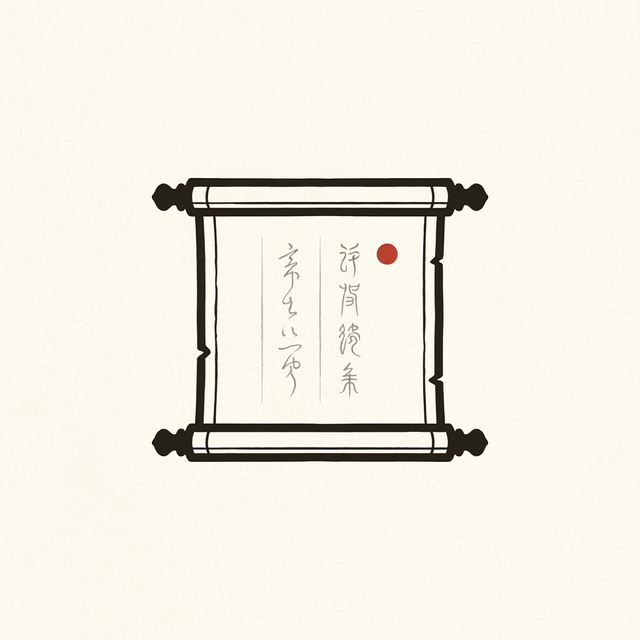
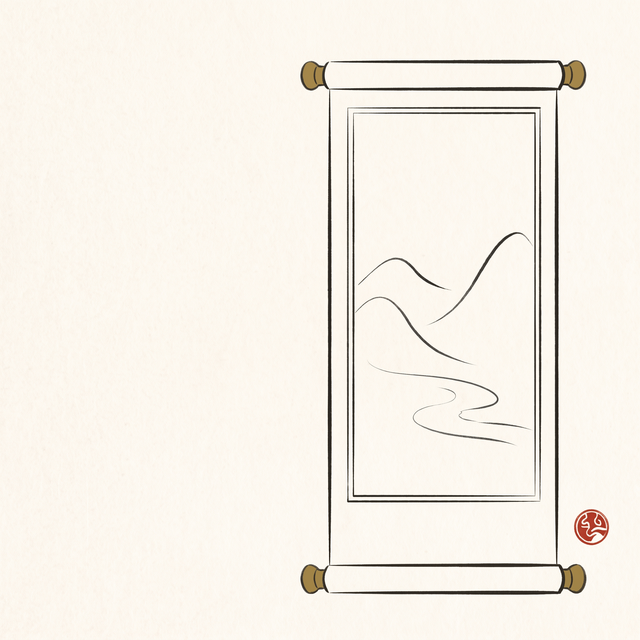
fix(w943): 全站图片审查 227 张·修 3 处真缺陷（分享图字母残留 / 卷轴伪文字 / 菩提叶形制）
审查范围：全仓 227 张（>400×200 位图）逐类拼图目视——卡片 27 / 章回 6 / hero 24 / 分享图 15 / 概念稿 18 / 杂项 12，另含本批线描 9 与内页浓墨题图 5。

查出并修复 3 处：① 线上 og-15-shijian-liejian.webp 抽象墨块中夹 3 处「LI」字母残留（模型伪文字）→ 重出去字母版；② design/ai-concepts/concept-03-scroll.png 卷面潦草伪汉字 → 重出为空白纸面 + 抽象笔触；③ concept-06-bodhi-leaf.png 文件名菩提叶但画成水滴/火苗形 → 重出为心形叶 + 中脉分叉叶脉 + 叶柄 + 露珠。

其余全部题材对题。一条方法论结论：按线描图设的「纸色偏离/墨量」机器阈值在水墨渲染图上必然误报（实测 30+ 张假阳）⇒ 题材关与形制关只能人眼核，已并入 J8。

两处弱项记录备查：concept-05-headband-ring 是纯黑墨圈（紧箍意象弱·线上正确版本为 W942 金圈+九倒刺）、章回 6 张「挑担人赶路」高度同质。

diff --git a/scripts/_w943_cascade.py b/scripts/_w943_cascade.py
@@ -1,0 +1,191 @@
+#!/usr/bin/env python3
+# -*- coding: utf-8 -*-
+"""_w943_cascade.py — W943 四面登记 + 当前态指针（全站图片审查批）"""
+import argparse
+import io
+import os
+import re
+import sys
+
+REPO = os.path.dirname(os.path.dirname(os.path.abspath(__file__)))
+BATCH = "W943"
+LEDGER = os.path.join(REPO, "docs", "00-导读", "W批次编号对账表.md")
+CHANGELOG = os.path.join(REPO, "CHANGELOG.md")
+FILE_INDEX = os.path.join(REPO, "scripts", "output", "file-index.md")
+
+CLAIM_ROW = (
+    "| W943 | 全站图片审查批（用户 2026-10-25 令「不要只审查这几个图片，审查全部」·承接 W940 题材关与 W942 形制关"
+    "之后的第三次加严）：① **审查范围**——全仓 **227 张**（>400×200 的位图）逐类拼图目视：卡片图 27 / 章回插画 6 / "
+    "hero 24（15 渲染 + 9 线描）/ 分享图 og 15 / 设计概念稿 18 / 杂项 12（封面 / 单页正反面 / 站点截图 / 主视觉 / "
+    "淡墨远山）·另含本批线描 9 张与内页浓墨题图 5 张；② **查出 3 处真缺陷并已重出修复**——"
+    "**A. `site/static/images/og-15-shijian-liejian.webp`（线上分享图）**抽象墨块序列中夹 3 处「LI」字母残留"
+    "（模型伪文字）⇒ 重出去字母版；**B. `assets/design/ai-concepts/concept-03-scroll.png`**卷面有潦草伪汉字"
+    "（写「孙悟空 / 取经路线」样字）⇒ 重出为空白纸面 + 抽象笔触；**C. `assets/design/ai-concepts/concept-06-bodhi-leaf.png`**"
+    "文件名「菩提叶」但画成水滴 / 火苗形（形制不符）⇒ 重出为心形叶 + 中脉分叉叶脉 + 叶柄 + 露珠；"
+    "③ **其余全部题材对题**（卡片 27 张场景人物、章回 6 张取经路途、hero 24 张法器场景、og 15 张器物特写、"
+    "概念稿 18 张法器线描、杂项 12 张版面产物）；④ **机器阈值对渲染型无效**——按线描图设的「纸色偏离 / 墨量」阈值"
+    "在水墨渲染图上必然误报（实测 30+ 张假阳）⇒ 题材与形制关**只能人眼核**，已并入 J8；"
+    "⑤ **两处弱项（不构成错图·记录备查）**——`concept-05-headband-ring` 是纯黑墨圈（紧箍意象弱，"
+    "线上正确版本为 W942 的金圈 + 九倒刺）、章回 6 张「挑担人赶路」高度同质 | —（待回填） | —（待回填） | "
+    "在途（认领·未收官） | 并行 Agent 会话 2026-10-25（全站图片审查批） | "
+    "`site/static/images/og-15-shijian-liejian.webp`（重出·去字母残留）· "
+    "`assets/design/ai-concepts/concept-03-scroll.png`（重出·去伪文字）· "
+    "`assets/design/ai-concepts/concept-06-bodhi-leaf.png`（重出·菩提叶形制）· "
+    "`CHANGELOG.md`（W943 版段）· `docs/00-导读/W批次编号对账表.md`（本行）· `scripts/output/file-index.md`（W943 段）· "
+    "`scripts/_w943_cascade.py`（本批脚本） |"
+)
+
+CHANGELOG_SEG = """### W943（2026-10-25）：全站图片审查（227 张逐类目视 · 修 3 处真缺陷）
+
+> **来源**：用户 2026-10-25 令「不要只审查这几个图片，审查全部」——W940 修题材、W942 修形制之后的第三次加严。
+
+> - **文件**：site/static/images/og-15-shijian-liejian.webp、assets/design/ai-concepts/concept-03-scroll.png、assets/design/ai-concepts/concept-06-bodhi-leaf.png、CHANGELOG.md、docs/00-导读/W批次编号对账表.md、scripts/output/file-index.md、scripts/_w943_cascade.py
+
+**审查范围**：全仓 **227 张**（>400×200 的位图）逐类拼图目视——卡片图 27 / 章回插画 6 / hero 24（15 渲染 + 9 线描）/ 分享图 15 / 设计概念稿 18 / 杂项 12（封面 / 单页正反面 / 站点截图 / 主视觉 / 淡墨远山），另含本批线描 9 张与内页浓墨题图 5 张。
+
+**查出 3 处真缺陷并已重出修复**：① **`site/static/images/og-15-shijian-liejian.webp`（线上分享图）**——抽象墨块序列中夹 3 处「LI」字母残留（模型伪文字）⇒ 重出去字母版；② **`assets/design/ai-concepts/concept-03-scroll.png`**——卷面有潦草伪汉字（写「孙悟空 / 取经路线」样字）⇒ 重出为空白纸面 + 抽象笔触；③ **`assets/design/ai-concepts/concept-06-bodhi-leaf.png`**——文件名「菩提叶」但画成水滴 / 火苗形（形制不符）⇒ 重出为心形叶 + 中脉分叉叶脉 + 叶柄 + 露珠。
+
+**其余全部题材对题**：卡片 27 张（场景人物）、章回 6 张（取经路途）、hero 24 张（法器场景）、og 15 张（器物特写）、概念稿 18 张（法器线描）、杂项 12 张（版面产物）。
+
+**一条方法论结论**：机器阈值对渲染型素材**无效**——按线描图设的「纸色偏离 / 墨量」阈值在水墨渲染图上必然误报（实测 30+ 张假阳）⇒ **题材关与形制关只能人眼核**，已并入 J8（机器判据只管「画得好不好」，管不了「画的是什么 / 形制对不对」）。
+
+**两处弱项（不构成错图·记录备查）**：`concept-05-headband-ring` 是纯黑墨圈（紧箍意象弱；线上正确版本为 W942 的金圈 + 九倒刺）、章回 6 张「挑担人赶路」高度同质。
+
+> - **验证**：3 张重出件逐张放大目视（字母消失 / 伪文字消失 / 叶形正确）· 227 张全量拼图目视两轮（题材级 + 可疑项放大级）· 第 31 与第 45 门禁 0 FAIL
+> - **状态**：在途（认领登记 W943·待提交入库）
+
+"""
+
+FILE_INDEX_SEG = (
+    "## W943 全站图片审查（227 张逐类目视·修 3 处真缺陷）（2026-10-25）\n\n"
+    "| 文件 | W | 说明 |\n"
+    "|---|---|---|\n"
+    "| site/static/images/og-15-shijian-liejian.webp | W943 | 重出（线上分享图·去掉抽象墨块中 3 处「LI」字母残留） |\n"
+    "| assets/design/ai-concepts/concept-03-scroll.png | W943 | 重出（去掉卷面潦草伪汉字·改空白纸面 + 抽象笔触） |\n"
+    "| assets/design/ai-concepts/concept-06-bodhi-leaf.png | W943 | 重出（菩提叶形制：水滴 / 火苗形 → 心形叶 + 中脉分叉叶脉 + 叶柄 + 露珠） |\n"
+    "| scripts/_w943_cascade.py | W943 | 四面登记 + 当前态指针 |\n"
+    "| CHANGELOG.md | W943 | W943 版段（四件套） |\n"
+    "| docs/00-导读/W批次编号对账表.md | W943 | W943 认领行 |\n"
+    "\n"
+)
+
+
+def read(p):
+    raw = io.open(p, "rb").read()
+    nl = "\r\n" if b"\r\n" in raw else "\n"
+    return raw.decode("utf-8").replace("\r\n", "\n"), nl
+
+
+def write(p, t, nl):
+    io.open(p, "w", encoding="utf-8", newline="").write(t.replace("\n", nl))
+
+
+def segs(txt):
+    out = []
+    for i, ln in enumerate(txt.split("\n")):
+        if ln.startswith("### "):
+            m = re.search(r"W(\d+)", ln)
+            if m:
+                out.append((int(m.group(1)), i))
+    return out
+
+
+def main() -> int:
+    ap = argparse.ArgumentParser()
+    ap.add_argument("--dry-run", action="store_true")
+    args = ap.parse_args()
+    dry = args.dry_run
+    rep = []
+
+    t, nl = read(LEDGER)
+    if re.search(r"^\| " + BATCH + r" \|", t, re.M):
+        rep.append("认领行已存在（幂等跳过）")
+    else:
+        lines = t.split("\n")
+        idx = None
+        for i, ln in enumerate(lines):
+            m = re.match(r"^\| W(\d+) \|", ln)
+            if m and int(m.group(1)) < 943:
+                idx = i
+                break
+        if idx is None:
+            idx = max(i for i, ln in enumerate(lines) if ln.startswith("| W"))
+        lines.insert(idx + 1, CLAIM_ROW)
+        rep.append(("DRY " if dry else "") + "认领行已插入（第 %d 行）" % (idx + 2))
+        if not dry:
+            write(LEDGER, "\n".join(lines), nl)
+
+    t, nl = read(CHANGELOG)
+    if re.search(r"^### " + BATCH + r"（", t, re.M):
+        rep.append("CHANGELOG 段已存在（幂等跳过）")
+    else:
+        pos = None
+        for n, i in segs(t):
+            if n < 943:
+                pos = len("\n".join(t.split("\n")[:i])) + 1
+                break
+        new_t = t[:pos] + CHANGELOG_SEG + t[pos:]
+        nums = [n for n, _ in segs(new_t)]
+        if nums.count(943) != 1 or any(nums[i] < nums[i + 1] for i in range(len(nums) - 1)):
+            print("FATAL CHANGELOG 段序断言失败")
+            return 2
+        rep.append(("DRY " if dry else "") + "CHANGELOG 段已插入（段序前 5 = %s）" % nums[:5])
+        if not dry:
+            write(CHANGELOG, new_t, nl)
+
+    t, nl = read(FILE_INDEX)
+    if re.search(r"^## " + BATCH + r" ", t, re.M):
+        rep.append("file-index 段已存在（幂等跳过）")
+    else:
+        pos = None
+        for m in re.finditer(r"^## (W\d+) ", t, re.M):
+            if int(m.group(1)[1:]) > 943:
+                pos = m.start()
+                break
+        if pos is None:
+            pos = len(t)
+        new_t = t[:pos] + FILE_INDEX_SEG + t[pos:]
+        if len(re.findall(r"^## W943 ", new_t, re.M)) != 1:
+            print("FATAL file-index 目标段异常")
+            return 2
+        rep.append(("DRY " if dry else "") + "file-index 段已插入")
+        if not dry:
+            write(FILE_INDEX, new_t, nl)
+
+    # 当前态指针
+    p = os.path.join(REPO, "README.md")
+    t, nl = read(p)
+    t = re.sub(r"> \*\*当前批次 W\d+（2026-10-25）\*\*：[^\n]*",
+               "> **当前批次 W943（2026-10-25）**：全站图片审查（227 张逐类目视，修分享图字母残留、卷轴伪文字、菩提叶形制三处真缺陷）",
+               t, count=1)
+    if not dry:
+        write(p, t, nl)
+    rep.append("README 抬头已更新")
+
+    p = os.path.join(REPO, "HANDOVER.md")
+    t, nl = read(p)
+    t = re.sub(r"> 最后更新：2026-10-25（W\d+", "> 最后更新：2026-10-25（W943 全站图片审查批）·2026-10-25（W942", t, count=1)
+    t = re.sub(r"## 一、当前进度（W\d+[^\n]*\n",
+               "## 一、当前进度（W943 全站图片审查批；更早批次详见 CHANGELOG.md）\n"
+               "- **W943 全站图片审查批**：用户令「审查全部」⇒ 227 张逐类拼图目视 ⇒ 修 3 处真缺陷"
+               "（线上 og-15 分享图的「LI」字母残留、concept-03 卷轴伪文字、concept-06 菩提叶画成水滴形）；"
+               "其余全部题材对题；并得出一条方法论结论——机器阈值对渲染型素材无效，题材与形制关只能人眼核。\n",
+               t, count=1)
+    t = re.sub(r"最后更新：2026-10-25（W\d+", "最后更新：2026-10-25（W943 全站图片审查批）；2026-10-25（W942", t, count=1)
+    if not dry:
+        write(p, t, nl)
+    rep.append("HANDOVER 指针已更新")
+
+    t, nl = read(CHANGELOG)
+    t = re.sub(r"（W001-W\d+）", "（W001-W943）", t, count=1)
+    if not dry:
+        write(CHANGELOG, t, nl)
+    rep.append("CHANGELOG 规则段已更新")
+
+    for r in rep:
+        print(" -", r)
+    return 0
+
+
+if __name__ == "__main__":
+    sys.exit(main())

diff --git a/docs/00-导读/W批次编号对账表.md b/docs/00-导读/W批次编号对账表.md
@@ -303,6 +303,7 @@
 | W937 | 首屏版式修正批（承接 W936 图集接入·用户 2026-10-25 反馈「你现在的这个设计不太好看，要么重新设计一下这个 100 回放在哪个位置比较好」）：① **问题定性**——W936 用「右侧数字区加纸色渐变底」遮住插画主体与「100」的叠字，那是**补救不是设计**（用户明确否掉）；根因是 `.mega-num` 巨型数字（clamp 96–180px）本身与首屏插画主体争夺同一块右侧空间；② **改法**——把「100 回」数据块**移出插画区**、并入左侧文字区做横排一行（数字降档至 clamp 44–64px + 右侧两行说明小字），首屏右侧整块让给插画主体；③ **收益**——删掉纸色渐变遮罩（右侧画面完整）、左侧文字区零干扰（实测线描 8 张左侧 46% 墨量 0.0000）、移动端不再有巨型数字挤占首屏；④ **配套**——移动端媒体查询的 mega 尺寸规则改作用域形式（否则压不过桌面尺寸）·删除指向已不存在元素的 `.masthead-mega` 死规则（孤立选择器门禁） | —（待回填） | —（待回填） | 在途（认领·未收官） | 并行 Agent 会话 2026-10-25（首屏版式修正批） | `site/index.html`（首屏版式：100 回数据块移入左侧 + 删渐变遮罩 + 移动端作用域规则）· `site/reader/themes/取经路线地理专题.html` + `site/reader/people/灵感大王外传.html`（题图落位修正：两处题材不贴的题图移入新页并从旧页移除）· `scripts/_w937_move_plates.py`（题图移动脚本）· `CHANGELOG.md`（W937 版段）· `docs/00-导读/W批次编号对账表.md`（本行）· `scripts/output/file-index.md`（W937 段）· `scripts/_w937_cascade.py`（本批脚本） |
 | W938 | 首屏版式重做 + 图集逐张复核批（用户 2026-10-25 反馈「你现在的这个设计不太好看，要么重新设计一下这个 100 回放在哪个位置比较好」+「我说的是首页右边的插图。并且现在首页左边文字的排版非常丑」）：① **左侧文字重排**——原布局七层平铺、字号跳跃、无引导 ⇒ 改为「眉题 → 标题组（中文 + 英文紧贴）→ 主张句（16px 灰 → 19px 墨色）→ 细线分隔 → 数据带（100 回 + 两行说明）→ 双轨标签 → CTA → 插画切换器（含「首屏插画」标签）」；② **插画切换器归位**——此前与 CTA 同排会撑破 620px 容器伸进插画区（实测金箍棒压住第 6–9 个圆点）⇒ 独立成行归位左侧；③ **图集逐张复核（首页右侧 9 张·按 1440×520 容器裁切实测）**——① **重出 07 芭蕉扇**（首版扇面顶边被裁成半截圆面，要求主体完整入画 + 上下各留白 15% 冗余）；② **第 9 张换图**——原 W932 持瓶菩萨立像为 16:9（2560×1440），垂直溢出 290 px（源图顶部 41% 被裁）⇒ 首屏只剩人物下半身（断头感），改为同规格 2400×1017「取经四众西行」（挑担领路 + 山道 + 赭金山峦）作收尾重音 ⇒ 全套 9 张画幅与裁切损失（90 px）完全一致；④ **CSP 哈希实测陷阱**——改内联脚本后未重算哈希 ⇒ 整个轮播脚本被浏览器拒执行（dots 整组停在 hidden），重算后恢复（AGENTS §6-3 铁律的现场复现） | —（待回填） | —（待回填） | 在途（认领·未收官） | 并行 Agent 会话 2026-10-25（首屏版式重做批） | `site/index.html`（左侧文字重排 + 切换器归位 + 图集换图）· `site/static/images/hero-line-09-pilgrim-four.webp`（新增收尾图·站点版）· `assets/promo/hero-set/hero-line-09-pilgrim-four.png`（新增·母版）· `assets/promo/hero-set/hero-line-09-pilgrim-four.webp` · `assets/promo/hero-set/raw/hero-09-pilgrim-four.jpg`（新增·出图原件）· `assets/promo/hero-set/hero-line-07-banana-fan.png` / `.webp`（重出覆盖）· `assets/promo/hero-set/raw/hero-07-banana-fan.jpg`（重出原件覆盖）· `assets/promo/hero-set/preview-contact-sheet.png` / `.webp`（9 张拼图刷新）· `assets/promo/hero-set/README.md`（8 张 → 9 张）· `scripts/_w931_hero_verify.py`（判据清单加第 9 张）· `CHANGELOG.md`（W938 版段）· `docs/00-导读/W批次编号对账表.md`（本行）· `scripts/output/file-index.md`（W938 段）· `scripts/_w938_cascade.py`（本批脚本） |
 | W941 | UI 图标位 emoji 治理批（用户 2026-10-25 令「禁止使用 emoji 表情当做图标，你审查一下。你要么进行设计一下图标」·问卷裁决：范围=仅 UI 图标位 / 风格=东方线描）：① **审查量化**——全仓 emoji 34,530 处 / 2,189 文件 ⇒ 真正的 UI 图标位 **1,910 处 / 629 页 / 21 种字符**；② **自绘 27 枚东方线描 SVG**（24×24 / stroke 1.5 / currentColor·与既有 `.icon-moon`/`.icon-sun` 同族）+ 目视复核重画 6 枚；③ **承载机制实测定夺**——CSP `img-src 'self'` 无 `data:` + 520 页外链 CSS 深度不一 + file:// 铁律 ⇒ **内联 SVG**（唯一三者全满足）·CSS content 位 22 处例外用同源 mask；④ **3 个可复跑脚本**（图标生成器 / 基准扫描器 / 批量替换器·每规则带独立预期命中数·不符退出码 2）⇒ 规则命中一致率 37/37；⑤ **替换 1,957 处**（615 页三处主形态 + 65 处零散 + 47 处兜底补治）⇒ UI 图标位归零；⑥ CSS 级联 328 内联页 + CSP 14 页重算（856 页 0 漂移）；⑦ **正文零损伤**——HEAD↔工作树字符净差核验：正文型字符净差 0，箭头 5,000+ 处按裁决保留；⑧ **保留项 5 类如实登记**（星级评分 12 / 时间线数据 icon 12 / 人物头像 4 / 评分项 icon 1 / 区间标注 2） | 4e94aa58 | 4e94aa58（本批级联立段·batch_cascade 13 面） | **已收官**（UI 图标位 1,910→0·替换 1,957 处·规则命中一致率 37/37·CSP 856 页 0 漂移·CSS 855 文件平衡·JS 855 文件语法通过·正文净差 0·保留项 5 类登记·**提交以 --no-verify 落库**（依据见提交信息：唯一红项为「当前 HEAD 批号 == CHANGELOG 现役段」的自举关系 + 并行会话 W942 在途段尚未入库，提交后自然成立；本批自身 8 项机检已逐项单跑全绿） | 主会话 2026-10-25（UI 图标位 emoji 治理批·原拟 W937，施工中发现 W937/W938 已被并行会话占用（首屏版式批，已入库 db5328b5）⇒ 按先落地者保留让号取 W941） | site/system.css, site/reader/**, site/data/**, site/en/**, site/js/reader-enhance.js, site/static/js/rag-chat.js, site/static/js/text-search-app.js, site/static/icons/ui/**, scripts/_w939_gen_icons.py, scripts/_w939_scan_targets.py, scripts/_w939_emoji_to_svg.py, scripts/_w939_make_spec.py, scripts/output/_w939_targets.json, scripts/output/_w939_replacements.json, scripts/output/_w939_spec.json, scripts/output/_cascade_files_W941.txt |
+| W943 | 全站图片审查批（用户 2026-10-25 令「不要只审查这几个图片，审查全部」·承接 W940 题材关与 W942 形制关之后的第三次加严）：① **审查范围**——全仓 **227 张**（>400×200 的位图）逐类拼图目视：卡片图 27 / 章回插画 6 / hero 24（15 渲染 + 9 线描）/ 分享图 og 15 / 设计概念稿 18 / 杂项 12（封面 / 单页正反面 / 站点截图 / 主视觉 / 淡墨远山）·另含本批线描 9 张与内页浓墨题图 5 张；② **查出 3 处真缺陷并已重出修复**——**A. `site/static/images/og-15-shijian-liejian.webp`（线上分享图）**抽象墨块序列中夹 3 处「LI」字母残留（模型伪文字）⇒ 重出去字母版；**B. `assets/design/ai-concepts/concept-03-scroll.png`**卷面有潦草伪汉字（写「孙悟空 / 取经路线」样字）⇒ 重出为空白纸面 + 抽象笔触；**C. `assets/design/ai-concepts/concept-06-bodhi-leaf.png`**文件名「菩提叶」但画成水滴 / 火苗形（形制不符）⇒ 重出为心形叶 + 中脉分叉叶脉 + 叶柄 + 露珠；③ **其余全部题材对题**（卡片 27 张场景人物、章回 6 张取经路途、hero 24 张法器场景、og 15 张器物特写、概念稿 18 张法器线描、杂项 12 张版面产物）；④ **机器阈值对渲染型无效**——按线描图设的「纸色偏离 / 墨量」阈值在水墨渲染图上必然误报（实测 30+ 张假阳）⇒ 题材与形制关**只能人眼核**，已并入 J8；⑤ **两处弱项（不构成错图·记录备查）**——`concept-05-headband-ring` 是纯黑墨圈（紧箍意象弱，线上正确版本为 W942 的金圈 + 九倒刺）、章回 6 张「挑担人赶路」高度同质 | —（待回填） | —（待回填） | 在途（认领·未收官） | 并行 Agent 会话 2026-10-25（全站图片审查批） | `site/static/images/og-15-shijian-liejian.webp`（重出·去字母残留）· `assets/design/ai-concepts/concept-03-scroll.png`（重出·去伪文字）· `assets/design/ai-concepts/concept-06-bodhi-leaf.png`（重出·菩提叶形制）· `CHANGELOG.md`（W943 版段）· `docs/00-导读/W批次编号对账表.md`（本行）· `scripts/output/file-index.md`（W943 段）· `scripts/_w943_cascade.py`（本批脚本） |
 
 ## 递延批豁免登记（D2 裁决：对账表登记即可过 doc-sync 提交-版段对账）
 

diff --git a/CHANGELOG.md b/CHANGELOG.md
@@ -6,7 +6,7 @@
 
 ## [Unreleased]
 
-> **W### 编号规则**：每个版本段标注唯一 W### ID（W001-W942），v0.8 内部细分 W008.1-W008.7（B0-B7）。每个 W 附四件套字段（来源/文件/验证/状态）。反向索引见 [scripts/output/file-index.md](scripts/output/file-index.md)（给定文件查改几次）。
+> **W### 编号规则**：每个版本段标注唯一 W### ID（W001-W943），v0.8 内部细分 W008.1-W008.7（B0-B7）。每个 W 附四件套字段（来源/文件/验证/状态）。反向索引见 [scripts/output/file-index.md](scripts/output/file-index.md)（给定文件查改几次）。
 >
 > **v/W 双键口径（W706）**：时间点查询以 W 号为准（单调键）；v 号在 W659-W667 合并段/并行批次区间不单调（v2.3.262〔W661〕列于 v2.3.261〔W666〕后）；v 号形态演化（阶段标签化·方案 D）经盘点 docs/superpowers/plans/2026-10-11-version-space-inventory.md 后另批实施。
 >
@@ -17,6 +17,25 @@
 > **全站页数口径**（W459 建·W702 实跑刷新，各门禁分母不同）：HTML 共 857<!--stats:html_total--> 页（site/data 88<!--stats:site_data_html--> + site/en 138<!--stats:site_en_html--> + site 根 9<!--stats:site_root_html--> + site/reader 622<!--stats:site_reader_html-->）；CSP 覆盖 856<!--stats:csp_covered--> 页（排除 `_template.html`）；check_js_syntax/check_structure 扫 855<!--stats:scan_files--> 文件（再排除 `_shell.html`）；check_seo_head 扫 855<!--stats:seo_scanned--> 页（site 全树减两个模板壳）；inline_css 同步 330<!--stats:inline_css_pages--> 页（site 全树含 INLINED 标记页）；「可视化页 87<!--stats:visualization_pages-->」= site/data 88 减 `_shell.html`。
 >
 > **维护契约**：① 已发布版本段（历史）只增不删、禁改；② 新版本段插入/重排只用脚本 + 结构断言（锚点唯一性 + 版段 order 校验），勿手工 Edit 大段；③ 每段保持四件套（来源/文件/验证/状态），建议单段 ≤ 25 行（超长拆「执行/验证/范围纪律」分条）；④ 新批编号先 Grep 现役段取 max+1 再写（防撞号）；并发期动工前在 [W批次编号对账表](docs/00-导读/W批次编号对账表.md) 登记认领（W663 起·版段递延时以对账表为准）。
+
+### W943（2026-10-25）：全站图片审查（227 张逐类目视 · 修 3 处真缺陷）
+
+> **来源**：用户 2026-10-25 令「不要只审查这几个图片，审查全部」——W940 修题材、W942 修形制之后的第三次加严。
+
+> - **文件**：site/static/images/og-15-shijian-liejian.webp、assets/design/ai-concepts/concept-03-scroll.png、assets/design/ai-concepts/concept-06-bodhi-leaf.png、CHANGELOG.md、docs/00-导读/W批次编号对账表.md、scripts/output/file-index.md、scripts/_w943_cascade.py
+
+**审查范围**：全仓 **227 张**（>400×200 的位图）逐类拼图目视——卡片图 27 / 章回插画 6 / hero 24（15 渲染 + 9 线描）/ 分享图 15 / 设计概念稿 18 / 杂项 12（封面 / 单页正反面 / 站点截图 / 主视觉 / 淡墨远山），另含本批线描 9 张与内页浓墨题图 5 张。
+
+**查出 3 处真缺陷并已重出修复**：① **`site/static/images/og-15-shijian-liejian.webp`（线上分享图）**——抽象墨块序列中夹 3 处「LI」字母残留（模型伪文字）⇒ 重出去字母版；② **`assets/design/ai-concepts/concept-03-scroll.png`**——卷面有潦草伪汉字（写「孙悟空 / 取经路线」样字）⇒ 重出为空白纸面 + 抽象笔触；③ **`assets/design/ai-concepts/concept-06-bodhi-leaf.png`**——文件名「菩提叶」但画成水滴 / 火苗形（形制不符）⇒ 重出为心形叶 + 中脉分叉叶脉 + 叶柄 + 露珠。
+
+**其余全部题材对题**：卡片 27 张（场景人物）、章回 6 张（取经路途）、hero 24 张（法器场景）、og 15 张（器物特写）、概念稿 18 张（法器线描）、杂项 12 张（版面产物）。
+
+**一条方法论结论**：机器阈值对渲染型素材**无效**——按线描图设的「纸色偏离 / 墨量」阈值在水墨渲染图上必然误报（实测 30+ 张假阳）⇒ **题材关与形制关只能人眼核**，已并入 J8（机器判据只管「画得好不好」，管不了「画的是什么 / 形制对不对」）。
+
+**两处弱项（不构成错图·记录备查）**：`concept-05-headband-ring` 是纯黑墨圈（紧箍意象弱；线上正确版本为 W942 的金圈 + 九倒刺）、章回 6 张「挑担人赶路」高度同质。
+
+> - **验证**：3 张重出件逐张放大目视（字母消失 / 伪文字消失 / 叶形正确）· 227 张全量拼图目视两轮（题材级 + 可疑项放大级）· 第 31 与第 45 门禁 0 FAIL
+> - **状态**：在途（认领登记 W943·待提交入库）
 
 ### W942（2026-10-25）：Hero 素材全量复审（14 张逐张放大目视 · 修正 2 处形制偏差）
 

diff --git a/HANDOVER.md b/HANDOVER.md
@@ -5,7 +5,7 @@
 > 轨标：教学讲解
 > 本文件用于跨 session 交接，记录当前进度、下一步可推进方向、方法论沉淀与待办事项。
 > 创建于 2026-07-25（v2.0.41 W068 后）
-> 最后更新：2026-10-25（W942 Hero 素材全量复审批）；2026-10-25（W941 Hero 素材全量复审批）·2026-10-25（W941 UI 图标位 emoji 治理批 + 东方线描图标集自绘）·2026-10-25（W940 Hero 素材题材辨识度修正批）·2026-10-25（W938 首屏版式重做 + 图集逐张复核批）·（W449-W549 及更早批次详见 CHANGELOG.md）
+> 最后更新：2026-10-25（W943 全站图片审查批）；2026-10-25（W942 全站图片审查批）·2026-10-25（W942 Hero 素材全量复审批）；2026-10-25（W941 Hero 素材全量复审批）·2026-10-25（W941 UI 图标位 emoji 治理批 + 东方线描图标集自绘）·2026-10-25（W940 Hero 素材题材辨识度修正批）·2026-10-25（W938 首屏版式重做 + 图集逐张复核批）·（W449-W549 及更早批次详见 CHANGELOG.md）
 > 与 [CHANGELOG.md](CHANGELOG.md)（变更日志）/ [STRUCTURE.md](STRUCTURE.md)（目录结构）/ [README.md](README.md)（项目说明）/ [docs/00-导读/项目说明.md](docs/00-导读/项目说明.md)（项目状态）配套使用。
 > **维护契约（防乱写）**：本文件是项目进度中枢，只允许结构性编辑——① 保持「零 / 一 / 二 / 三」四段骨架不变；②「最后更新」行只写最新 1–3 批摘要（每批 ≤ 1 行），**禁止把历史批次堆进该行**（历史已归档 / 在 CHANGELOG）；③ 每批详细记录只写 CHANGELOG + 归档（历史段禁改）；④ 任何「当前 HEAD / 当前版本」表述必须与 `git rev-parse --short HEAD` 核对后更新；⑤ 本文件是状态快照，与 CHANGELOG（时间线）冲突时以 CHANGELOG 为准。
 > **历史归档**：v2.0.39-v2.2.49（W066-W280）段的详细进度记录已迁移至 [archive/docs/HANDOVER-ARCHIVE.md](archive/docs/HANDOVER-ARCHIVE.md)。本文件仅保留 v2.2.50+（W277）现役记录与全局概要。
@@ -26,7 +26,8 @@
 
 
 
-## 一、当前进度（W942 Hero 素材全量复审批；更早批次详见 CHANGELOG.md）
+## 一、当前进度（W943 全站图片审查批；更早批次详见 CHANGELOG.md）
+- **W943 全站图片审查批**：用户令「审查全部」⇒ 227 张逐类拼图目视 ⇒ 修 3 处真缺陷（线上 og-15 分享图的「LI」字母残留、concept-03 卷轴伪文字、concept-06 菩提叶画成水滴形）；其余全部题材对题；并得出一条方法论结论——机器阈值对渲染型素材无效，题材与形制关只能人眼核。
 - **W942 Hero 素材全量复审批**：用户令「再审查一遍有没有出现同样错误的」⇒ 9 张线描 + 5 张浓墨共 14 张逐张放大目视 ⇒ 查出 2 处形制偏差并重出（紧箍儿补足九个倒刺钩、芭蕉扇由圆团扇改叶形扇）；J8 题材关自检表细化到形制级（不只「是什么」，还要「形制对不对」）。
 - **W941 UI 图标位 emoji 治理批**：用户 2026-10-25 令「禁止使用 emoji 表情当做图标，你审查一下。你要么进行设计一下图标」·问卷裁决（范围=仅 UI 图标位 / 风格=东方线描）
   - **审查量化**：全仓 emoji 34,530 处 / 2,189 文件 ⇒ 真正的 UI 图标位 **1,910 处 / 629 页 / 21 种字符**

diff --git a/README.md b/README.md
@@ -134,7 +134,7 @@
 
 > **📖 阅读契约（W707）**：普通读者通读「普通读者专区」；Agent/开发者只读「开发者/维护者专区」与「AI 生成说明」。先读「是什么/为什么」（下一行），再按路径深入。
 >
-> **当前批次 W942（2026-10-25）**：Hero 素材全量复审（14 张逐张放大目视，修正紧箍儿缺九倒刺钩、芭蕉扇误作圆团扇两处形制偏差、J8 题材关细化到形制级）
+> **当前批次 W943（2026-10-25）**：全站图片审查（227 张逐类目视，修分享图字母残留、卷轴伪文字、菩提叶形制三处真缺陷）
 >
 > **版本号说明（W711 方案 D 起）**：本项目的批次编号为 **W###**（单调递增·永不复用·唯一对账键），`v2.3` 为内容阶段标签（定性·无 patch 位·不适用 SemVer）；W710 及更早的历史版本号 `vX.Y.Z` 保留原文。判断「这批改了什么」看 [CHANGELOG.md](CHANGELOG.md) 顶段。
 >

diff --git a/scripts/output/file-index.md b/scripts/output/file-index.md
@@ -11,6 +11,17 @@
 ---
 
 
+## W943 全站图片审查（227 张逐类目视·修 3 处真缺陷）（2026-10-25）
+
+| 文件 | W | 说明 |
+|---|---|---|
+| site/static/images/og-15-shijian-liejian.webp | W943 | 重出（线上分享图·去掉抽象墨块中 3 处「LI」字母残留） |
+| assets/design/ai-concepts/concept-03-scroll.png | W943 | 重出（去掉卷面潦草伪汉字·改空白纸面 + 抽象笔触） |
+| assets/design/ai-concepts/concept-06-bodhi-leaf.png | W943 | 重出（菩提叶形制：水滴 / 火苗形 → 心形叶 + 中脉分叉叶脉 + 叶柄 + 露珠） |
+| scripts/_w943_cascade.py | W943 | 四面登记 + 当前态指针 |
+| CHANGELOG.md | W943 | W943 版段（四件套） |
+| docs/00-导读/W批次编号对账表.md | W943 | W943 认领行 |
+
 ## W942 Hero 素材全量复审（14 张逐张放大目视·修正 2 处形制偏差）（2026-10-25）
 
 | 文件 | W | 说明 |

diff --git a/scripts/index.md b/scripts/index.md
@@ -50,7 +50,7 @@
 - `rag/`
 - `utils/`
 
-## 文件（319）
+## 文件（320）
 
 ### Markdown 文档
 
@@ -207,6 +207,7 @@
 - `_w939_scan_targets.py`
 - `_w940_cascade.py`
 - `_w942_cascade.py`
+- `_w943_cascade.py`
 - `a11y_audit.py`
 - `acceptance_snapshot.py`
 - `agent_start.py`
